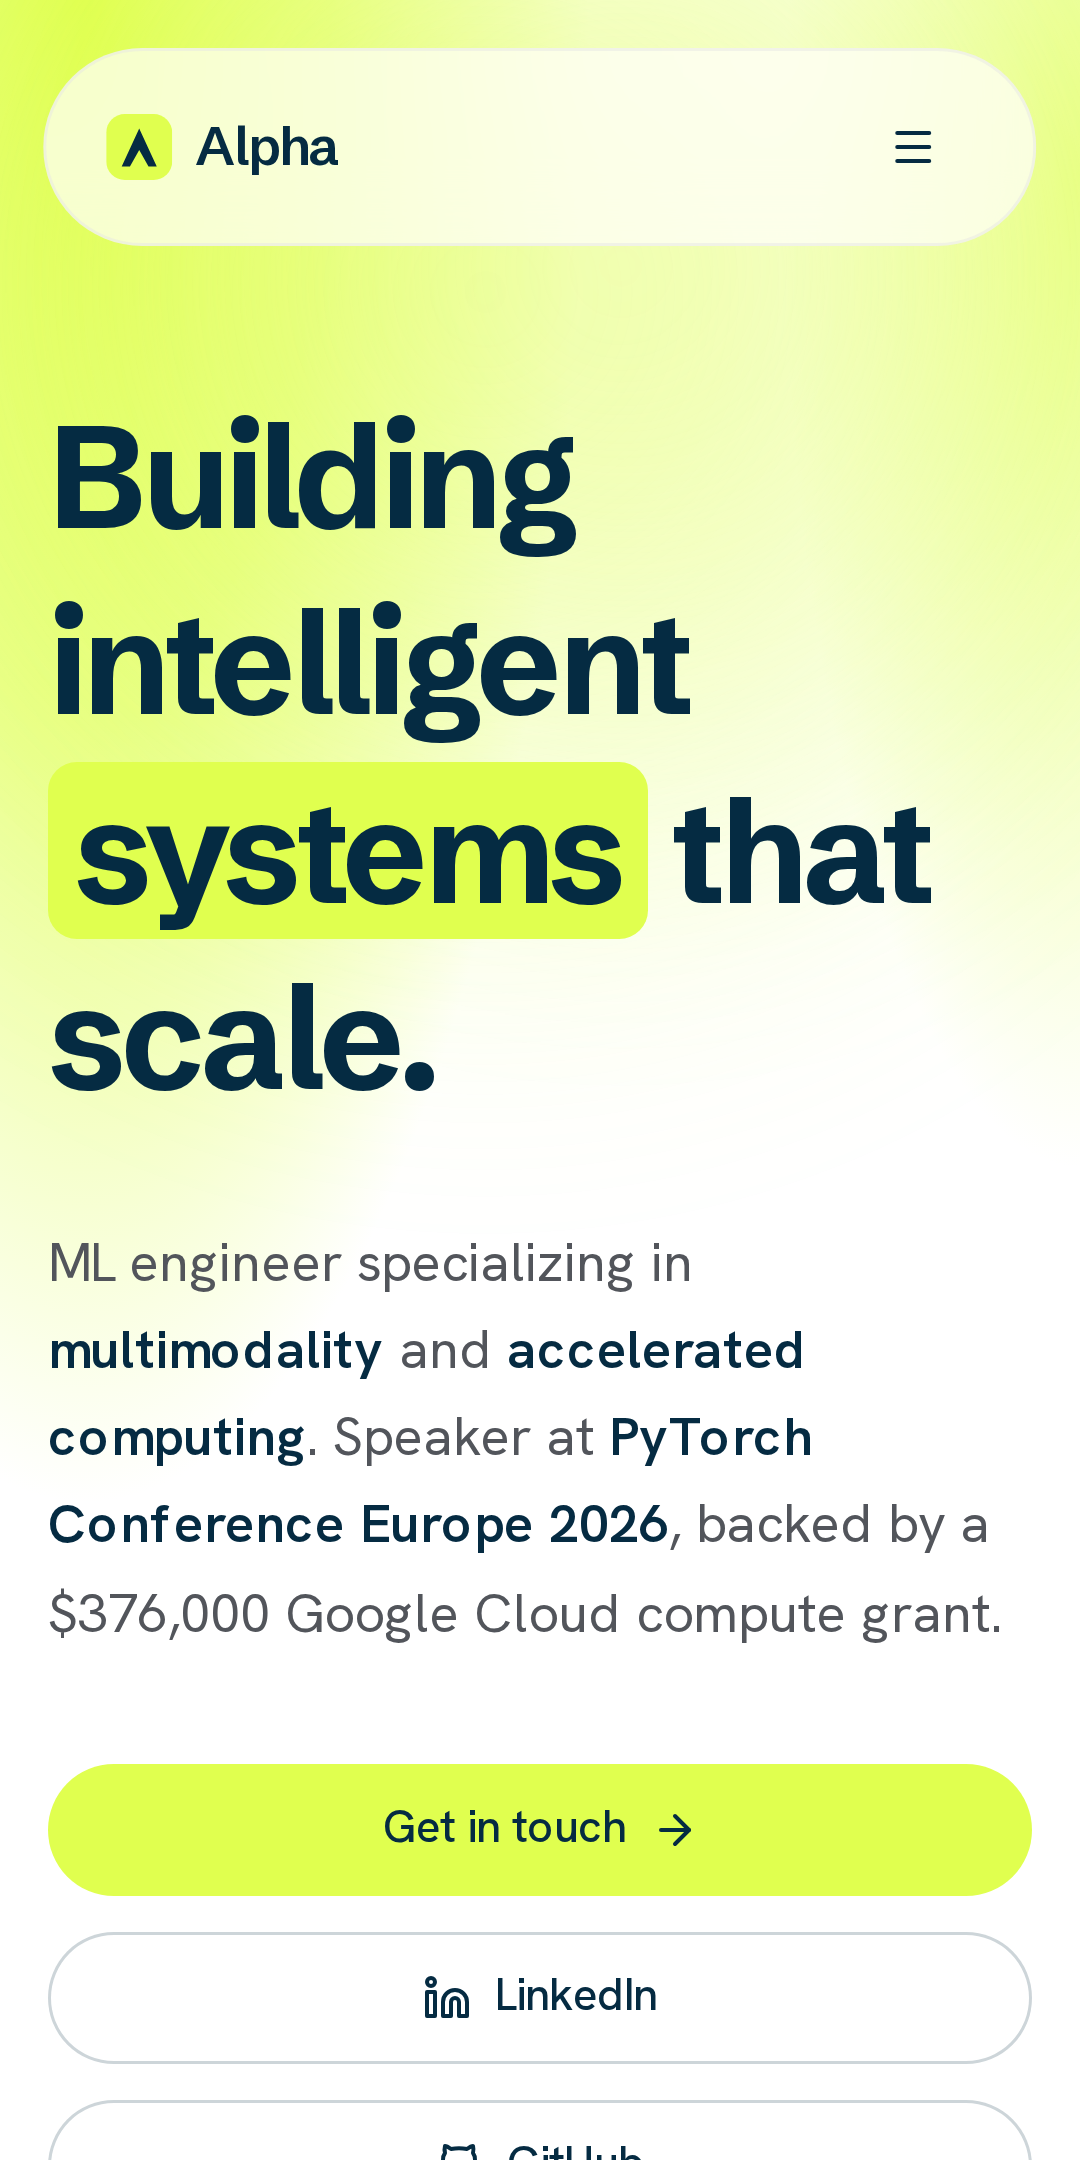
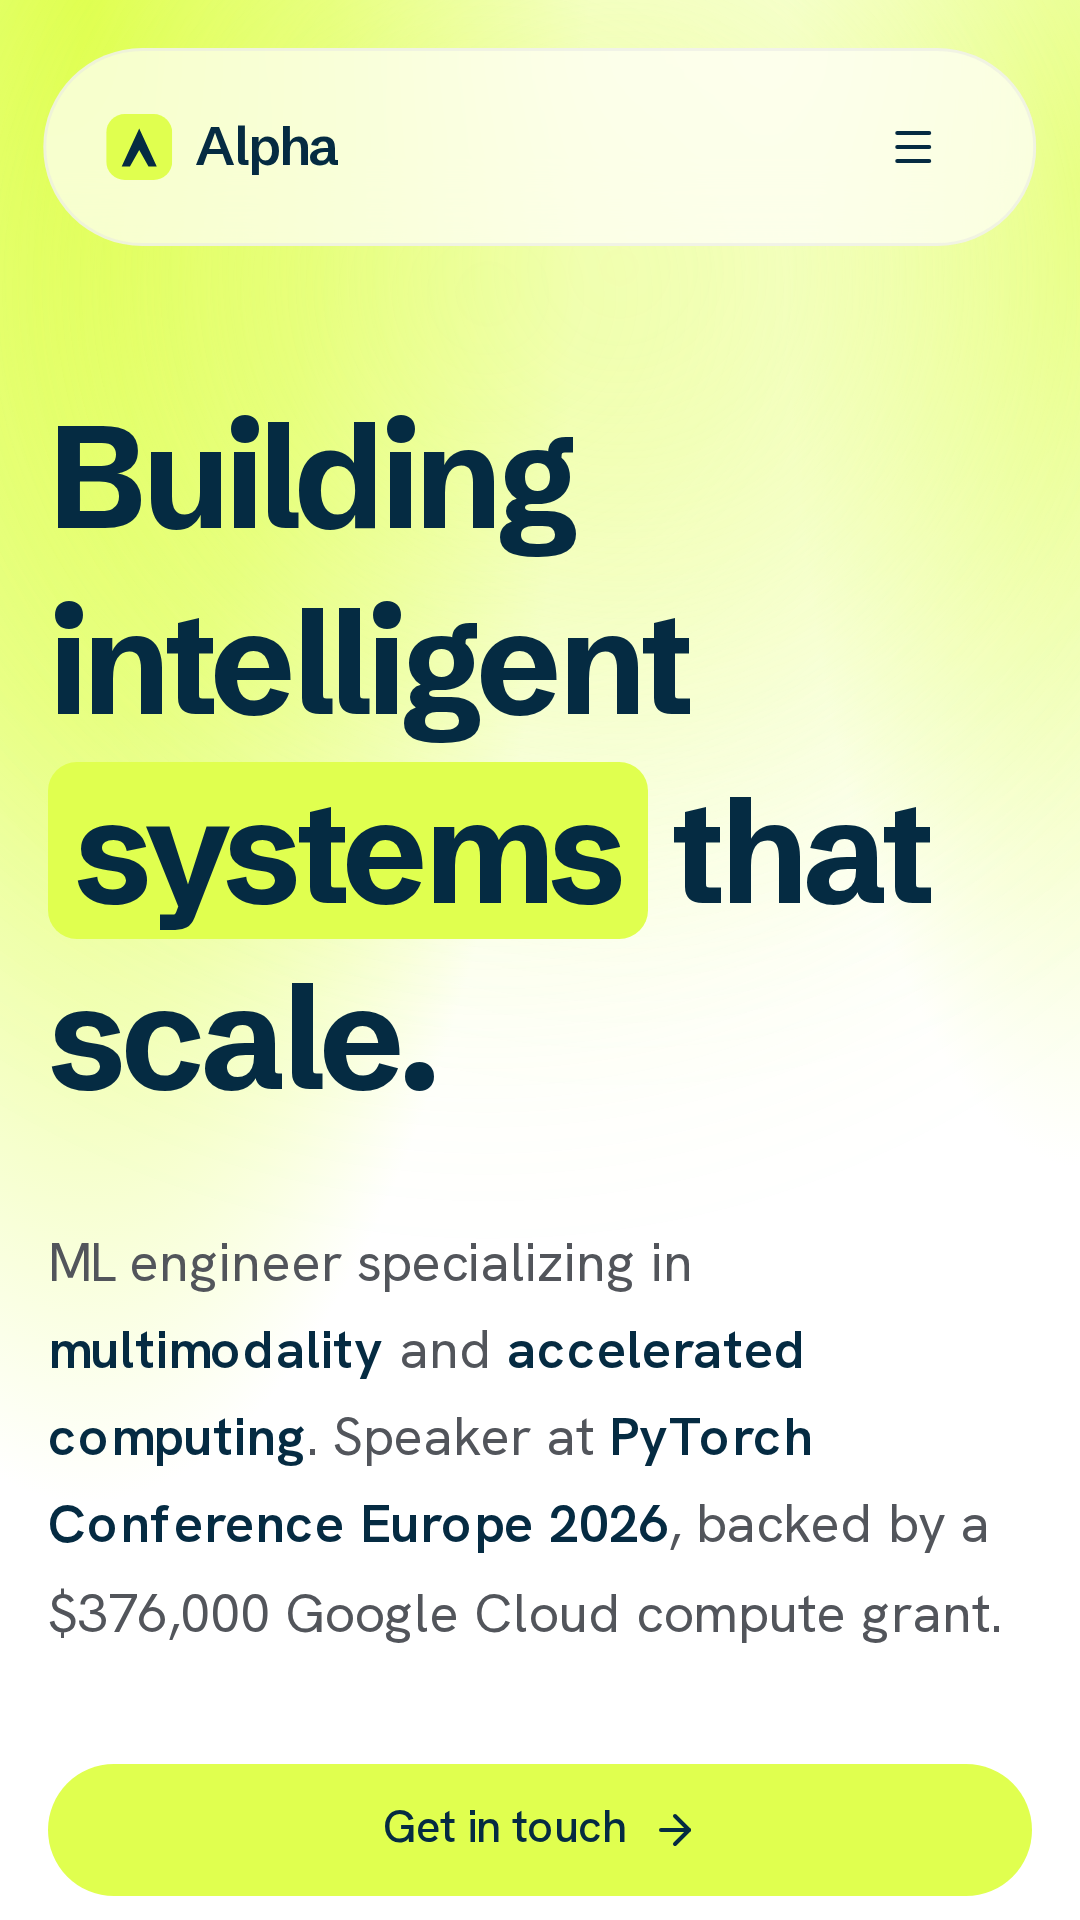
chore(twa): finalize play listing assets (phone 9:16 + 7in/10in tablet 16:9)
Replace the phone screenshots with proper 1080x1920 (9:16) shots scrolled to the
content worth seeing (hero, PyTorch Conf Europe talk card, a writing post, and the
$376K/92%/4x/25+ metrics + affiliations band) and add 7-inch (1920x1080) and
10-inch (2560x1440) tablet sets for home/speaking/blog. Add the 512 app icon and
the final short/full store descriptions. Drop the gallery shot (page not ready).

diff --git a/twa/README.md b/twa/README.md
@@ -83,18 +83,39 @@ Optional sanity check: `npx @bubblewrap/cli validate --url https://alpharomer.co
 
 ## Phase 4 — Store listing (assets are ready in `twa/play-assets/`)
 
-- **App icon (512×512):** `public/web-app-manifest-512x512.png`
+- **App icon (512×512, <1MB):** `twa/play-assets/app-icon-512.png`
 - **Feature graphic (1024×500):** `twa/play-assets/feature-graphic.png`
-- **Phone screenshots (1080×2160):** `twa/play-assets/phone-{home,speaking,gallery,blog}.png`
+- **Phone screenshots (1080×1920, 9:16):** `twa/play-assets/phone-{home,speaking,blog,stats}.png`
+  (hero, PyTorch Conf Europe talk card, a writing post, and the $376K/92%/4x/25+ + affiliations band)
+- **7-inch tablet (1920×1080, 16:9):** `twa/play-assets/tablet7-{home,speaking,blog}.png`
+- **10-inch tablet (2560×1440, 16:9):** `twa/play-assets/tablet10-{home,speaking,blog}.png`
 - **Privacy policy URL:** `https://alpharomer.com/privacy`
-- **Short description (≤80):** `ML engineer building intelligent systems that scale — talks, work, and writing.`
-- **Full description (draft):**
-  > Alpha is the official app for Alpha Romer Coma, a machine learning engineer
-  > focused on multimodality and accelerated computing. Browse selected work and
-  > projects, talks and workshops (including PyTorch Conference Europe), writing,
-  > recognition, and a gallery — all in a fast, installable, offline-capable app.
+- **Short description (78/80):**
+  `ML engineer building intelligent systems that scale. Talks, work, and writing.`
+- **Full description:**
+  > Alpha is the official app of Alpha Romer Coma, a machine learning engineer
+  > working on multimodality and accelerated computing. It is the fastest way to
+  > explore the work behind the title: selected projects and research, talks and
+  > workshops, writing, and recognition. The app installs to your home screen,
+  > loads instantly, and works offline.
+  >
+  > Speaking: talks and workshops, including PyTorch Conference Europe 2026, plus
+  > sessions with the Microsoft, Google, and AWS communities.
+  >
+  > Research and work: multimodal AI and accelerated computing, including a shipped
+  > vision-language model and benchmarks across modern accelerators, backed by a
+  > $376,000 Google Cloud compute grant.
+  >
+  > Writing: practical notes and essays on building intelligent systems and the
+  > engineering behind them.
+  >
+  > Recognition: awards, honors, and a running record of the work.
+  >
+  > Built as a Progressive Web App, Alpha mirrors alpharomer.com with offline
+  > support and a clean, distraction-free reading experience. No ads. No
+  > third-party tracking. Just the work.
 - Complete the **content rating** questionnaire, **Data safety** form (analytics
-  only; no data sold), and **target audience** (not directed at children).
+  only; no data sold), and **target audience** (13+, not directed at children).
 
 Promote Internal testing → Production when you're happy.
 